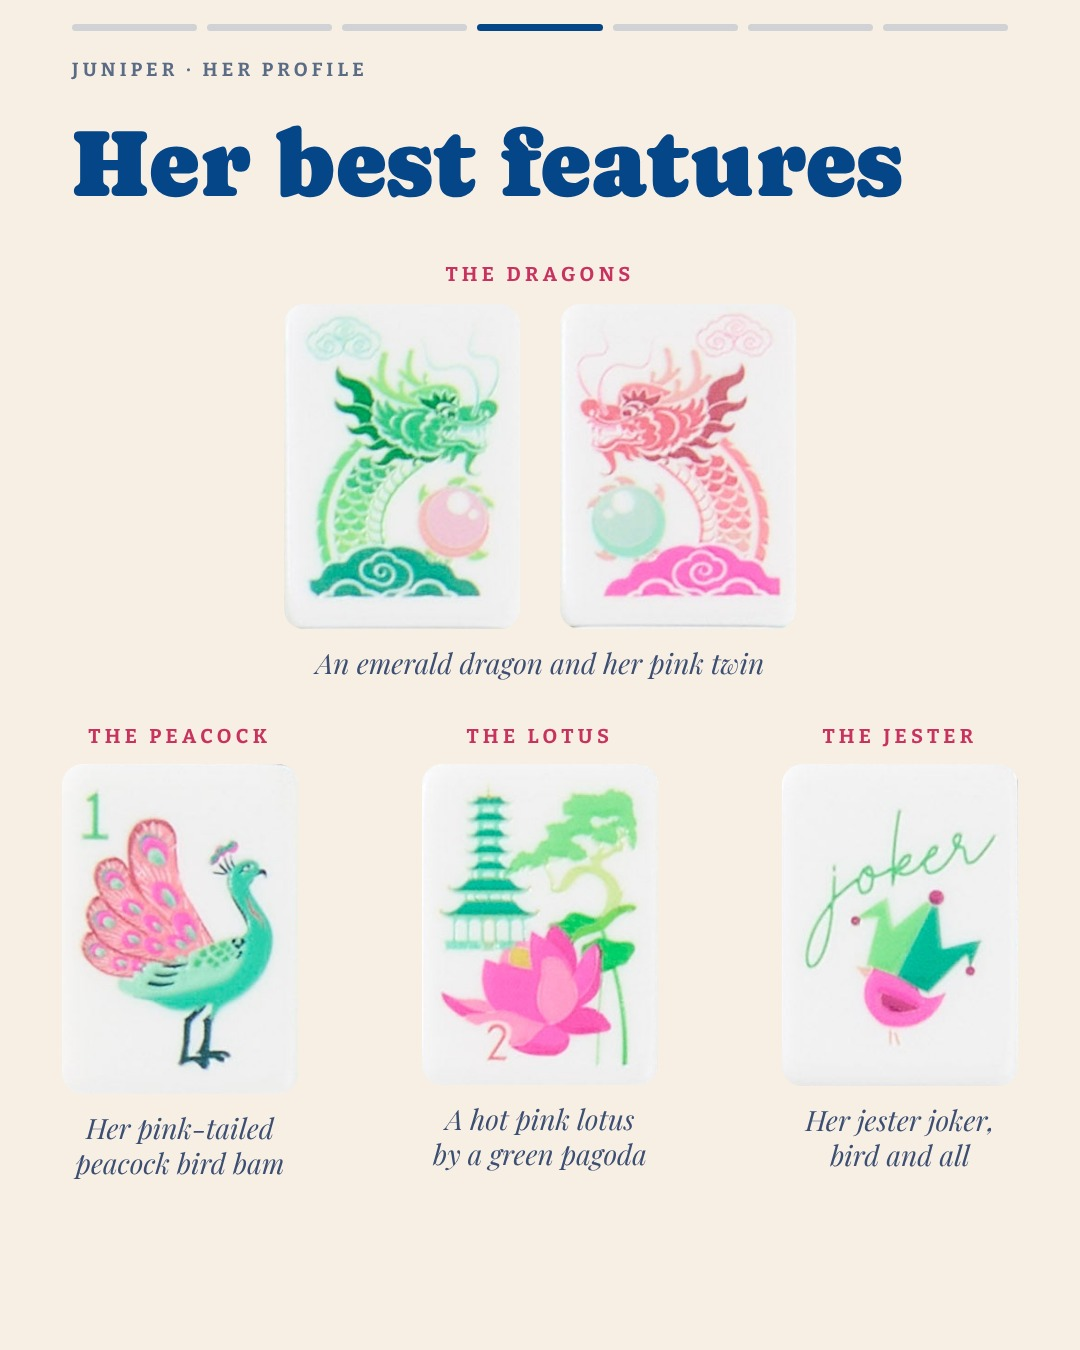
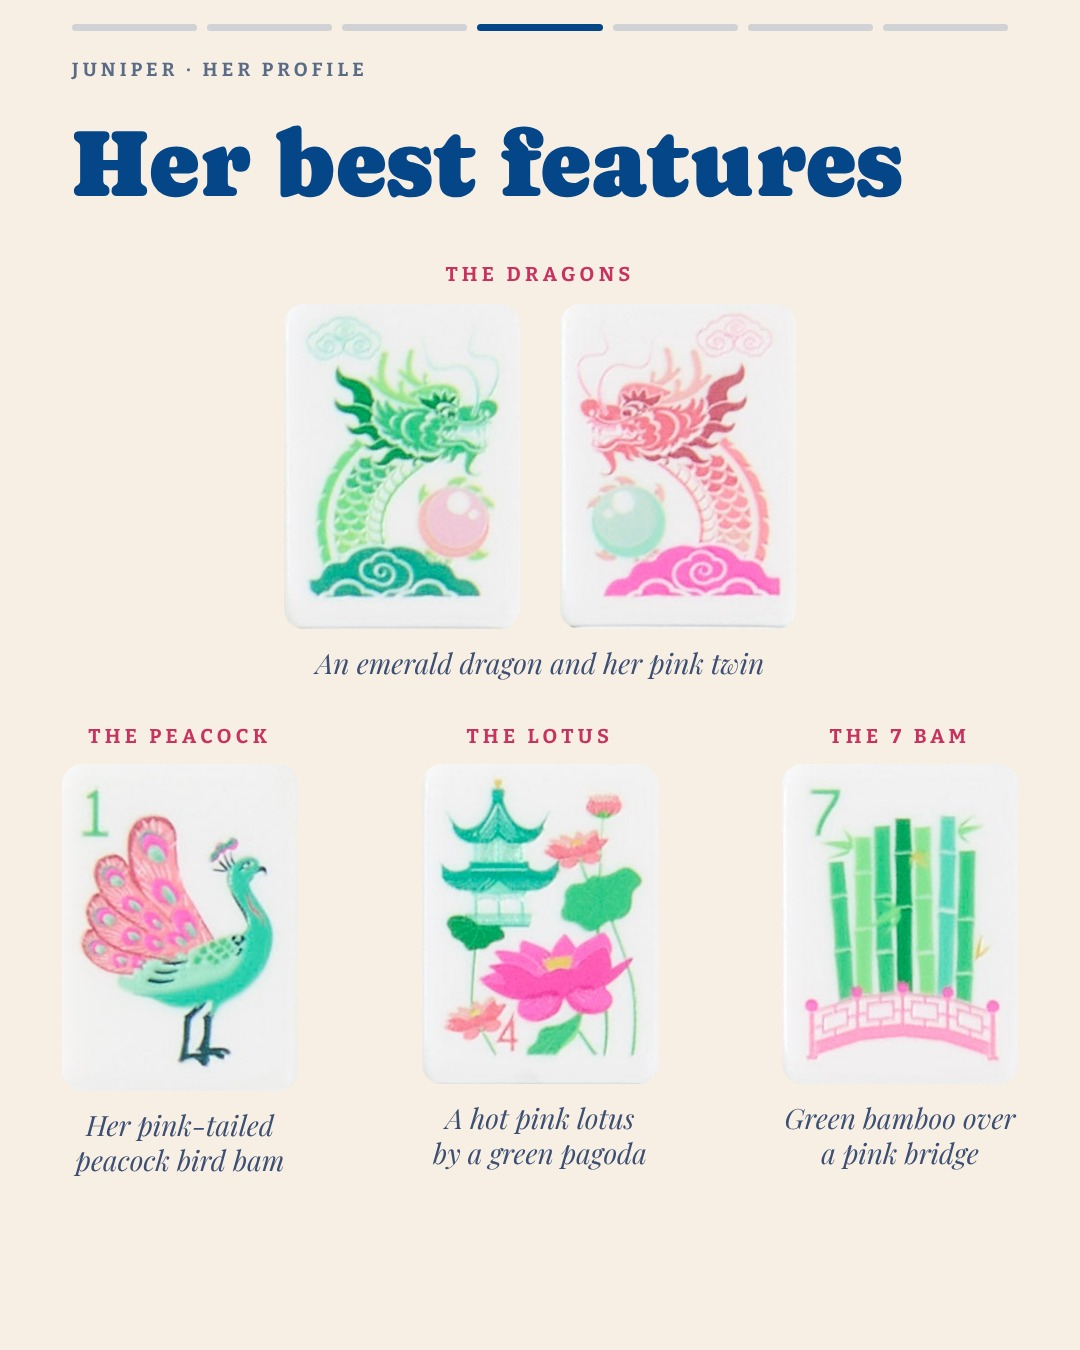
Juniper best features: final card from Tiffany's 5 picks; peacock re-cut; face-resolution check
Checked every OMM Juniper image: the flat lay (3185x3982, ~266px/tile) is the only
straight-on source, so cutouts stay native (no upscaling). bam-1-peacock re-cut with
3px top inset to drop a shadow-line sliver. Re-ran favorites.py + intro.py juniper.

Claude-Session: https://claude.ai/code/session_01U7RfeJEDwDLRZnhiPmiFwy

diff --git a/scripts/colorwheel/favorites-juniper.html b/scripts/colorwheel/favorites-juniper.html
@@ -6,10 +6,10 @@
 .big{font-family:Capra;text-transform:uppercase;text-align:center;-webkit-text-stroke:14px #fff;paint-order:stroke fill;letter-spacing:.01em;line-height:1}
 </style></head><body>
 <div style="position:relative;width:1080px;height:1350px;background:#f6e3d3;overflow:hidden">
-<div style="position:absolute;bottom:128px;left:50%;transform:translateX(-50%);white-space:nowrap;background:#1f3a6b;color:#fff;font:700 20px Pop;letter-spacing:.14em;padding:10px 18px;border-radius:999px">DRAFT · CLAUDE'S PICKS</div><div class="big" style="position:absolute;top:44px;left:0;right:0;font-size:82px;color:#e06a8e">Her best features</div>
+<div class="big" style="position:absolute;top:44px;left:0;right:0;font-size:82px;color:#e06a8e">Her best features</div>
 <div style="position:absolute;top:166px;left:0;right:0"><div style="font:700 27px Pop;letter-spacing:.24em;text-transform:uppercase;color:#1f3a6b;text-align:center;white-space:nowrap">The dragons</div>
  <div style="display:flex;justify-content:center;gap:44px;margin-top:22px"><img src="file:///home/claude/mahjmatchmaker-data/assets/tiles/faces/juniper/clean/dragon-green.png" style="width:244px;display:block"><img src="file:///home/claude/mahjmatchmaker-data/assets/tiles/faces/juniper/clean/dragon-red.png" style="width:244px;display:block"></div>
  <div style="margin-top:20px"><div style="font:italic 400 29px/1.25 PF;color:#2c3e63;text-align:center;white-space:nowrap">An emerald dragon and her pink twin</div></div></div>
-<div style="position:absolute;top:688px;left:30px;right:30px;display:flex;justify-content:space-between"><div style="display:flex;flex-direction:column;align-items:center;width:300px"><div style="font:700 27px Pop;letter-spacing:.24em;text-transform:uppercase;color:#1f3a6b;text-align:center;white-space:nowrap">The peacock</div><div style="margin-top:20px"><img src="file:///home/claude/mahjmatchmaker-data/assets/tiles/faces/juniper/clean/bam-1-peacock.png" style="width:232px;display:block"></div><div style="margin-top:18px"><div style="font:italic 400 29px/1.25 PF;color:#2c3e63;text-align:center;white-space:nowrap">Her pink-tailed<br>peacock bird bam</div></div></div><div style="display:flex;flex-direction:column;align-items:center;width:300px"><div style="font:700 27px Pop;letter-spacing:.24em;text-transform:uppercase;color:#1f3a6b;text-align:center;white-space:nowrap">The lotus</div><div style="margin-top:20px"><img src="file:///home/claude/mahjmatchmaker-data/assets/tiles/faces/juniper/clean/flower-2a.png" style="width:232px;display:block"></div><div style="margin-top:18px"><div style="font:italic 400 29px/1.25 PF;color:#2c3e63;text-align:center;white-space:nowrap">A hot pink lotus<br>by a green pagoda</div></div></div><div style="display:flex;flex-direction:column;align-items:center;width:300px"><div style="font:700 27px Pop;letter-spacing:.24em;text-transform:uppercase;color:#1f3a6b;text-align:center;white-space:nowrap">The jester</div><div style="margin-top:20px"><img src="file:///home/claude/mahjmatchmaker-data/assets/tiles/faces/juniper/clean/joker-1.png" style="width:232px;display:block"></div><div style="margin-top:18px"><div style="font:italic 400 29px/1.25 PF;color:#2c3e63;text-align:center;white-space:nowrap">Her jester joker,<br>bird and all</div></div></div></div>
+<div style="position:absolute;top:688px;left:30px;right:30px;display:flex;justify-content:space-between"><div style="display:flex;flex-direction:column;align-items:center;width:300px"><div style="font:700 27px Pop;letter-spacing:.24em;text-transform:uppercase;color:#1f3a6b;text-align:center;white-space:nowrap">The peacock</div><div style="margin-top:20px"><img src="file:///home/claude/mahjmatchmaker-data/assets/tiles/faces/juniper/clean/bam-1-peacock.png" style="width:232px;display:block"></div><div style="margin-top:18px"><div style="font:italic 400 29px/1.25 PF;color:#2c3e63;text-align:center;white-space:nowrap">Her pink-tailed<br>peacock bird bam</div></div></div><div style="display:flex;flex-direction:column;align-items:center;width:300px"><div style="font:700 27px Pop;letter-spacing:.24em;text-transform:uppercase;color:#1f3a6b;text-align:center;white-space:nowrap">The lotus</div><div style="margin-top:20px"><img src="file:///home/claude/mahjmatchmaker-data/assets/tiles/faces/juniper/clean/flower-4a.png" style="width:232px;display:block"></div><div style="margin-top:18px"><div style="font:italic 400 29px/1.25 PF;color:#2c3e63;text-align:center;white-space:nowrap">A hot pink lotus<br>by a green pagoda</div></div></div><div style="display:flex;flex-direction:column;align-items:center;width:300px"><div style="font:700 27px Pop;letter-spacing:.24em;text-transform:uppercase;color:#1f3a6b;text-align:center;white-space:nowrap">The 7 Bam</div><div style="margin-top:20px"><img src="file:///home/claude/mahjmatchmaker-data/assets/tiles/faces/juniper/clean/bam-7.png" style="width:232px;display:block"></div><div style="margin-top:18px"><div style="font:italic 400 29px/1.25 PF;color:#2c3e63;text-align:center;white-space:nowrap">Green bamboo over<br>a pink bridge</div></div></div></div>
 <div class="big" style="position:absolute;bottom:46px;left:0;right:0;font-size:48px;color:#1f3a6b;-webkit-text-stroke:10px #fff">Shop Juniper at Oh My Mahjong</div>
 </div></body></html>

diff --git a/assets/social/juniper-launch/html/intro-4.html b/assets/social/juniper-launch/html/intro-4.html
@@ -29,5 +29,5 @@ html,body{width:1080px;height:1350px;overflow:hidden;background:#f7eee4;color:#0
 <div style="position:absolute;top:262px;left:0;right:0"><div class="caps" style="font-size:20px;color:var(--pink);text-align:center;white-space:nowrap">The dragons</div>
  <div style="display:flex;justify-content:center;gap:40px;margin-top:18px"><img src="file:///home/claude/mahjmatchmaker-data/assets/tiles/faces/juniper/clean/dragon-green.png" style="width:236px;display:block"><img src="file:///home/claude/mahjmatchmaker-data/assets/tiles/faces/juniper/clean/dragon-red.png" style="width:236px;display:block"></div>
  <div style="margin-top:16px"><div class="pf" style="font-size:28px;line-height:1.25;color:#3c4f73;text-align:center;white-space:nowrap">An emerald dragon and her pink twin</div></div></div>
-<div style="position:absolute;top:724px;left:30px;right:30px;display:flex;justify-content:space-between"><div style="display:flex;flex-direction:column;align-items:center;width:300px"><div class="caps" style="font-size:20px;color:var(--pink);text-align:center;white-space:nowrap">The peacock</div><div style="margin-top:16px"><img src="file:///home/claude/mahjmatchmaker-data/assets/tiles/faces/juniper/clean/bam-1-peacock.png" style="width:236px;display:block"></div><div style="margin-top:16px"><div class="pf" style="font-size:28px;line-height:1.25;color:#3c4f73;text-align:center;white-space:nowrap">Her pink-tailed<br>peacock bird bam</div></div></div><div style="display:flex;flex-direction:column;align-items:center;width:300px"><div class="caps" style="font-size:20px;color:var(--pink);text-align:center;white-space:nowrap">The lotus</div><div style="margin-top:16px"><img src="file:///home/claude/mahjmatchmaker-data/assets/tiles/faces/juniper/clean/flower-2a.png" style="width:236px;display:block"></div><div style="margin-top:16px"><div class="pf" style="font-size:28px;line-height:1.25;color:#3c4f73;text-align:center;white-space:nowrap">A hot pink lotus<br>by a green pagoda</div></div></div><div style="display:flex;flex-direction:column;align-items:center;width:300px"><div class="caps" style="font-size:20px;color:var(--pink);text-align:center;white-space:nowrap">The jester</div><div style="margin-top:16px"><img src="file:///home/claude/mahjmatchmaker-data/assets/tiles/faces/juniper/clean/joker-1.png" style="width:236px;display:block"></div><div style="margin-top:16px"><div class="pf" style="font-size:28px;line-height:1.25;color:#3c4f73;text-align:center;white-space:nowrap">Her jester joker,<br>bird and all</div></div></div></div>
+<div style="position:absolute;top:724px;left:30px;right:30px;display:flex;justify-content:space-between"><div style="display:flex;flex-direction:column;align-items:center;width:300px"><div class="caps" style="font-size:20px;color:var(--pink);text-align:center;white-space:nowrap">The peacock</div><div style="margin-top:16px"><img src="file:///home/claude/mahjmatchmaker-data/assets/tiles/faces/juniper/clean/bam-1-peacock.png" style="width:236px;display:block"></div><div style="margin-top:16px"><div class="pf" style="font-size:28px;line-height:1.25;color:#3c4f73;text-align:center;white-space:nowrap">Her pink-tailed<br>peacock bird bam</div></div></div><div style="display:flex;flex-direction:column;align-items:center;width:300px"><div class="caps" style="font-size:20px;color:var(--pink);text-align:center;white-space:nowrap">The lotus</div><div style="margin-top:16px"><img src="file:///home/claude/mahjmatchmaker-data/assets/tiles/faces/juniper/clean/flower-4a.png" style="width:236px;display:block"></div><div style="margin-top:16px"><div class="pf" style="font-size:28px;line-height:1.25;color:#3c4f73;text-align:center;white-space:nowrap">A hot pink lotus<br>by a green pagoda</div></div></div><div style="display:flex;flex-direction:column;align-items:center;width:300px"><div class="caps" style="font-size:20px;color:var(--pink);text-align:center;white-space:nowrap">The 7 Bam</div><div style="margin-top:16px"><img src="file:///home/claude/mahjmatchmaker-data/assets/tiles/faces/juniper/clean/bam-7.png" style="width:236px;display:block"></div><div style="margin-top:16px"><div class="pf" style="font-size:28px;line-height:1.25;color:#3c4f73;text-align:center;white-space:nowrap">Green bamboo over<br>a pink bridge</div></div></div></div>
 </div><div style="position:fixed;top:24px;left:72px;right:72px;display:flex;gap:10px;z-index:9"><i style="flex:1;height:7px;border-radius:4px;background:rgba(5,70,137,.16)"></i><i style="flex:1;height:7px;border-radius:4px;background:rgba(5,70,137,.16)"></i><i style="flex:1;height:7px;border-radius:4px;background:rgba(5,70,137,.16)"></i><i style="flex:1;height:7px;border-radius:4px;background:#054689"></i><i style="flex:1;height:7px;border-radius:4px;background:rgba(5,70,137,.16)"></i><i style="flex:1;height:7px;border-radius:4px;background:rgba(5,70,137,.16)"></i><i style="flex:1;height:7px;border-radius:4px;background:rgba(5,70,137,.16)"></i></div></body></html>

diff --git a/scripts/colorwheel/cut_faces_juniper.py b/scripts/colorwheel/cut_faces_juniper.py
@@ -3,7 +3,10 @@ ohmymahjong.com/products/juniper-mahjong-tiles.json = assets/launches/omm-junipe
 The flat lay is a 10 x 5 grid of butted tiles separated by a 1-2px shadow line. We find each line exactly (column /
 row median darkness inside a search window), crop just inside it, and give the tile a rounded-corner alpha mask:
 no white frame, no shadow. Output: assets/tiles/faces/juniper/clean/<name>.png
-Usage: python3 scripts/colorwheel/cut_faces_juniper.py"""
+Usage: python3 scripts/colorwheel/cut_faces_juniper.py [name ...]
+Nov 7: checked every OMM Juniper image (tiles, starter kit, ultimate kit; retailers carry none). The flat lay is the
+ONLY straight-on shot of all faces and its master is 3185x3982 (~266 px per tile); the 2048px corner close-up is angled
+with depth-of-field blur, so these ~256x351 cutouts are the sharpest true source. No upscaling."""
 import numpy as np, os
 from PIL import Image, ImageDraw
 R = '/home/claude/mahjmatchmaker-data/'
@@ -33,6 +36,10 @@ NAMES = [
  ['wind-north', 'wind-east', 'wind-west', 'wind-south', 'joker-1', 'joker-2', 'joker-3', 'joker-4', 'joker-5', None],
 ]
 INSET = 5; RAD = 22
+# per-tile extra inset (left, top, right, bottom): Nov 7 bam-1-peacock top edge carried a sliver of the shadow line
+EXTRA = {'bam-1-peacock': (0, 3, 0, 0)}
+import sys
+ONLY = set(sys.argv[1:])  # optional: cut only these names
 def mask(w, h):
     s = 4; m = Image.new('L', (w * s, h * s), 0)
     ImageDraw.Draw(m).rounded_rectangle([0, 0, w * s - 1, h * s - 1], RAD * s, fill=255)
@@ -40,8 +47,9 @@ def mask(w, h):
 n = 0
 for j, row in enumerate(NAMES):
     for i, nm in enumerate(row):
-        if not nm: continue
+        if not nm or (ONLY and nm not in ONLY): continue
+        el, et, er, eb = EXTRA.get(nm, (0, 0, 0, 0))
         bot = 12 if j == 4 else INSET  # bottom row: the outer edge shows a sliver of the green layers
-        box = (xs[i] + INSET, ys[j] + INSET, xs[i + 1] - INSET + 1, ys[j + 1] - bot + 1)
+        box = (xs[i] + INSET + el, ys[j] + INSET + et, xs[i + 1] - INSET + 1 - er, ys[j + 1] - bot + 1 - eb)
         t = im.crop(box).convert('RGBA'); t.putalpha(mask(*t.size)); t.save(OUT + nm + '.png'); n += 1
 print(n, 'tiles ->', OUT)

diff --git a/site/livepatch/juniper-album-nov06/README.md b/site/livepatch/juniper-album-nov06/README.md
@@ -4,6 +4,11 @@ ROUND 3 (Nov 6, her 2:26am notes) applied OFFLINE, not published: see CHANGES-ro
 Page: juniper-album.html (phone-first, images = jsDelivr pinned SHA; racks = OMM Hot Pink + Agate per Tiffany Nov 6 2:11am, Agate card from scripts/albumcard/omm_agate_card.py). Rebuild: `python3 build.py <sha> juniper-album.html` (`local` instead of a sha = relative image paths).
 Her one question: pick 4 faces (hearts -> "Copy my picks" -> paste in chat). Her picks are final; never swap them later. Then write them into config/profiles/juniper.json best_features (drop the PROPOSAL _status) and re-run `python3 scripts/colorwheel/favorites.py juniper` + `python3 scripts/social/tileprofile/intro.py juniper`.
 
+PICKS DONE (Tiffany Nov 7 7:22pm, final, never swap): dragon-green (emerald dragon) + dragon-red (pink dragon) on top as a pair, then bam-1-peacock, flower-4a (green pagoda + hot pink lotus), bam-7. In config/profiles/juniper.json best_features.
+- Final card: assets/social/juniper-launch/juniper-favorite-tiles.jpg (the -DRAFT.jpg is the old proposal). Intro carousel re-rendered: assets/social/juniper-launch/intro/1-7.jpg (slide 4 = her best features).
+- Face resolution (Nov 7 check): every OMM Juniper image (tiles product, starter kit, ultimate starter kit; no retailer lists Juniper) was checked. The flat lay master is 3185x3982 (~266 px per tile) and is the ONLY straight-on shot; the 2048px corner close-up (juniper-starter-kit-2327595) is angled with depth-of-field blur (green dragon soft, no peacock). So the cutouts stay ~251-259 x 348-352 px from the flat lay; they show at ~1:1 on both cards. No upscaling. A sharper face needs a new straight-on photo (e.g. our own shot of the real tiles, or ask OMM for the original flat lay file).
+- Crop fix Nov 7: bam-1-peacock re-cut with 3px extra top inset (a sliver of the shadow line showed at its top-right corner): `python3 scripts/colorwheel/cut_faces_juniper.py bam-1-peacock`. Other 4 unchanged.
+
 Pieces:
 - Cover: assets/covers/albums/00-juniper-mahjong-tiles-cover.jpg (+ w800/). `FRAME=frame3.png python3 scripts/covers/album_cover_omm.py assets/launches/omm-juniper-mahjong-tiles/06-Tile_Juniper_F.jpg scripts/covers/holiday/omm_white.png 112 "Juniper<br>Tiles" "34,93,54" <out>`.
 - Colour card (existing): assets/colorcards/juniper/. Colour wheel: assets/colorwheels/juniper-color-wheel.jpg (`python3 scripts/colorwheel/wheel.py juniper`; papaya output unchanged, pixel-checked).
